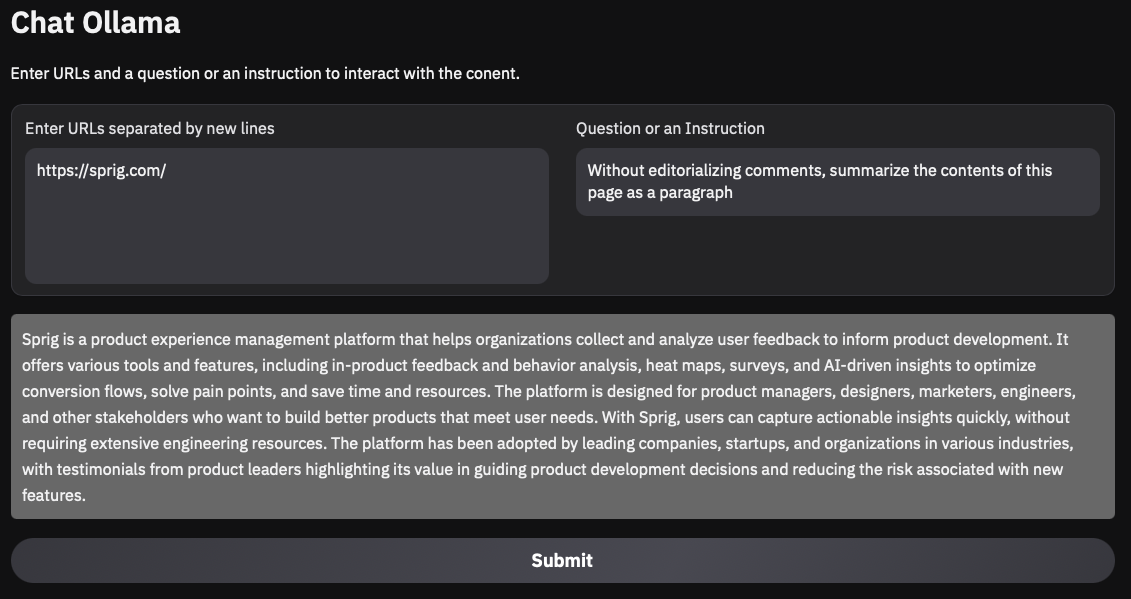
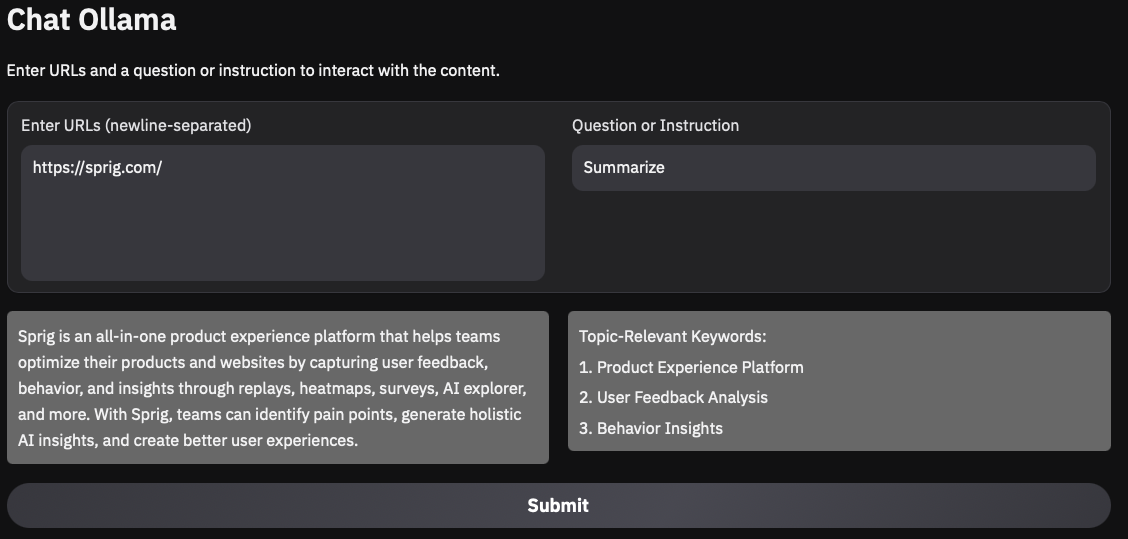
pylinted, added keywords list, updated screenshot

diff --git a/ollama_ai/embedding/ui.py b/ollama_ai/embedding/ui.py
@@ -1,22 +1,54 @@
 #!/usr/bin/env python3
+"""
+    Chat Ollama Module
+
+    Module Name: ChatOllama
+
+    Description:
+        This module is a web-based interface that uses natural language processing (NLP) techniques
+        to generate human-like responses based on user input. It connects to a PostgreSQL database
+        to retrieve and store knowledge graph data.
+
+    Functions:
+
+    *   extract_section(text): Extracts the topic relevant keywords section from a given text.
+    *   remove_section(text): Removes the topic relevant keywords section from a given text.
+    *   load_documents(urls): Loads documents from a list of URLs using the WebBaseLoader.
+    *   embed_and_store_documents(documents): Embeds documents and stores them in PGVector.
+    *   query_documents(urls, query): Queries the documents for the given question or instruction
+        using the ChatOllama model.
+    *   process_input(urls, q_n_a): Processes the input URLs and query to generate a response.
+
+    Usage:
+        To use this module, simply run the script and navigate to the provided URL in your browser.
+        Enter URLs separated by newline characters and a question or instruction to receive a
+            response.
+
+    Requirements:
+        This module requires the following dependencies: gradio, psycopg2, langchain_ollama,
+        langchain_community, langchain_postgres, re, traceback, os, psycopg2.extensions
+
+    Author:
+        ©2024, Ovais Quraishi
+"""
+
+import os
+import re
+import traceback
+from typing import List
+
+import gradio as gr
+import psycopg2
+from psycopg2.extensions import make_dsn
 
 from config import get_config
-from langchain.output_parsers import PydanticOutputParser
 from langchain.schema import Document
 from langchain.text_splitter import CharacterTextSplitter
 from langchain_community.document_loaders import WebBaseLoader
-from langchain_community.vectorstores import Chroma
-from langchain_core.output_parsers import StrOutputParser
 from langchain_core.prompts import ChatPromptTemplate
-from langchain_ollama import ChatOllama
-from langchain_ollama import OllamaEmbeddings
+from langchain_ollama import ChatOllama, OllamaEmbeddings
+
 from langchain_postgres import PGVector
-from psycopg2.extensions import make_dsn
-import gradio as gr
-import os
-import psycopg2
-import traceback
-from typing import List
 
 # Configuration
 CONFIG = get_config()
@@ -37,10 +69,28 @@ if OLLAMA_HOST:
 else:
     os.environ['OLLAMA_HOST'] = ""
 
-def load_documents(urls: List[str]) -> List[Document]:
+def extract_section(text):
+    """Extract Topic Relevant Keywords section"""
+
+    pattern = r'Topic-Relevant Keywords:\n(.*?)\Z'
+    match = re.search(pattern, text, re.DOTALL)
+    if match:
+        return match.group(0).strip()
+    else:
+        return None
+
+def remove_section(text):
+    """Remove Topic Relevant Keywords section"""
+
+    pattern = r'Topic-Relevant Keywords:\n(.*?)\Z'
+    text_without_section = re.sub(pattern, '', text, flags=re.DOTALL)
+    return text_without_section.strip()
+
+def load_documents(url_list: List[str]) -> List[Document]:
     """Loads documents from a list of URLs."""
+
     try:
-        docs = [WebBaseLoader(url).load() for url in urls]
+        docs = [WebBaseLoader(url).load() for url in url_list]
         return [item for sublist in docs for item in sublist]
     except Exception as e:
         print(f"Error loading documents: {e}")
@@ -48,36 +98,41 @@ def load_documents(urls: List[str]) -> List[Document]:
 
 def embed_and_store_documents(documents: List[Document]):
     """Embeds documents and stores them in PGVector."""
-    
+
     try:
-        text_splitter = CharacterTextSplitter.from_tiktoken_encoder(chunk_size=7500, chunk_overlap=100)
+        text_splitter = CharacterTextSplitter.from_tiktoken_encoder(chunk_size=7500,
+                                                                    chunk_overlap=100)
         doc_splits = text_splitter.split_documents(documents)
 
         embedding_model = OllamaEmbeddings(model="nomic-embed-text")
-        vectorstore = PGVector.from_documents(doc_splits, embedding_model, connection=PGVECTOR_CONNECTION)
+        vectorstore = PGVector.from_documents(doc_splits, embedding_model,
+                                                connection=PGVECTOR_CONNECTION)
 
-        with psycopg2.connect(make_dsn(host=host, port=port, dbname=database, user=user, password=password)) as conn:
+        with psycopg2.connect(make_dsn(host=host, port=port, dbname=database,
+                                        user=user, password=password)) as conn:
             with conn.cursor() as cur:
                 for doc in doc_splits:
-                    cur.execute("SELECT id FROM rag_pgvector WHERE document = %s", (doc.page_content,))
+                    cur.execute("SELECT id FROM rag_pgvector WHERE document = %s",
+                                (doc.page_content,))
                     if not cur.fetchone():
                         vectorstore.add_documents([Document(page_content=doc.page_content)])
     except Exception as e:
         print(f"Error embedding documents: {e}\n{traceback.format_exc()}")
 
-def query_documents(urls: List[str], query: str) -> str:
+def query_documents(url_list: List[str], query: str) -> str:
     """Queries the documents for the given question or instruction."""
-    
+
     try:
         # Load and process documents
-        documents = load_documents(urls)
+        documents = load_documents(url_list)
         if not documents:
             return "No documents found or failed to load documents."
 
         embed_and_store_documents(documents)
 
         # Combine all document content into a single context string
-        text_splitter = CharacterTextSplitter.from_tiktoken_encoder(chunk_size=7500, chunk_overlap=100)
+        text_splitter = CharacterTextSplitter.from_tiktoken_encoder(chunk_size=7500,
+                                                                    chunk_overlap=100)
         doc_splits = text_splitter.split_documents(documents)
         retriever_context = "\n".join([doc.page_content for doc in doc_splits])
 
@@ -92,8 +147,13 @@ def query_documents(urls: List[str], query: str) -> str:
         # Initialize the model
         model = ChatOllama(model=LLM, temperature=0.7)
 
+        append_query = (
+            "Additionally, list 3 topic-relevant keywords as a numbered "
+            "list at the end. Always label the list with 'Topic-Relevant Keywords:'"
+        )
+
         # Create the input for the pipeline
-        input_data = {"context": retriever_context, "query": query}
+        input_data = {"context": retriever_context, "query": query + append_query}
 
         # Run the pipeline
         prompt_result = prompt.invoke(input_data)  # Process input through the prompt
@@ -104,18 +164,29 @@ def query_documents(urls: List[str], query: str) -> str:
         print(f"Error querying documents: {e}\n{traceback.format_exc()}")
         return "An error occurred while processing the query."
 
-def process_input(urls: str, q_n_a: str) -> str:
+def process_input(urls_str: str, q_n_i: str) -> str:
     """Processes the input URLs and query to generate a response."""
-    
-    urls_list = urls.strip().split("\n")
-    if not urls_list or not q_n_a.strip():
+
+    urls_list = urls_str.strip().split("\n")
+    if not urls_list or not q_n_i.strip():
         return "Please provide valid URLs and a question or instruction."
 
-    return query_documents(urls_list, q_n_a)
+    orig_results = query_documents(urls_list, q_n_i)
+    keyword_list = extract_section(orig_results)
+    new_results = remove_section(orig_results)
+
+    return new_results, keyword_list
 
 # Define Gradio UI
 with gr.Blocks(css="""
     #results-box {
+        border: 1px solid #ccc;
+        padding: 10px;
+        border-radius: 5px;
+        background-color: #737373;
+        min-height: 100px;
+    }
+    #keywords-box {
         border: 1px solid #ccc;
         padding: 10px;
         border-radius: 5px;
@@ -130,9 +201,11 @@ with gr.Blocks(css="""
         urls = gr.Textbox(label="Enter URLs (newline-separated)", lines=5)
         q_n_a = gr.Textbox(label="Question or Instruction")
 
-    results = gr.Markdown(elem_id="results-box")
+    with gr.Row():
+        results = gr.Markdown(elem_id="results-box", label="Results")
+        keywords = gr.Markdown(elem_id="keywords-box", label="Keyword List")
 
     submit_button = gr.Button("Submit")
-    submit_button.click(fn=process_input, inputs=[urls, q_n_a], outputs=[results])
+    submit_button.click(fn=process_input, inputs=[urls, q_n_a], outputs=[results, keywords])
 
 ui.launch(server_name="0.0.0.0", pwa=True)
